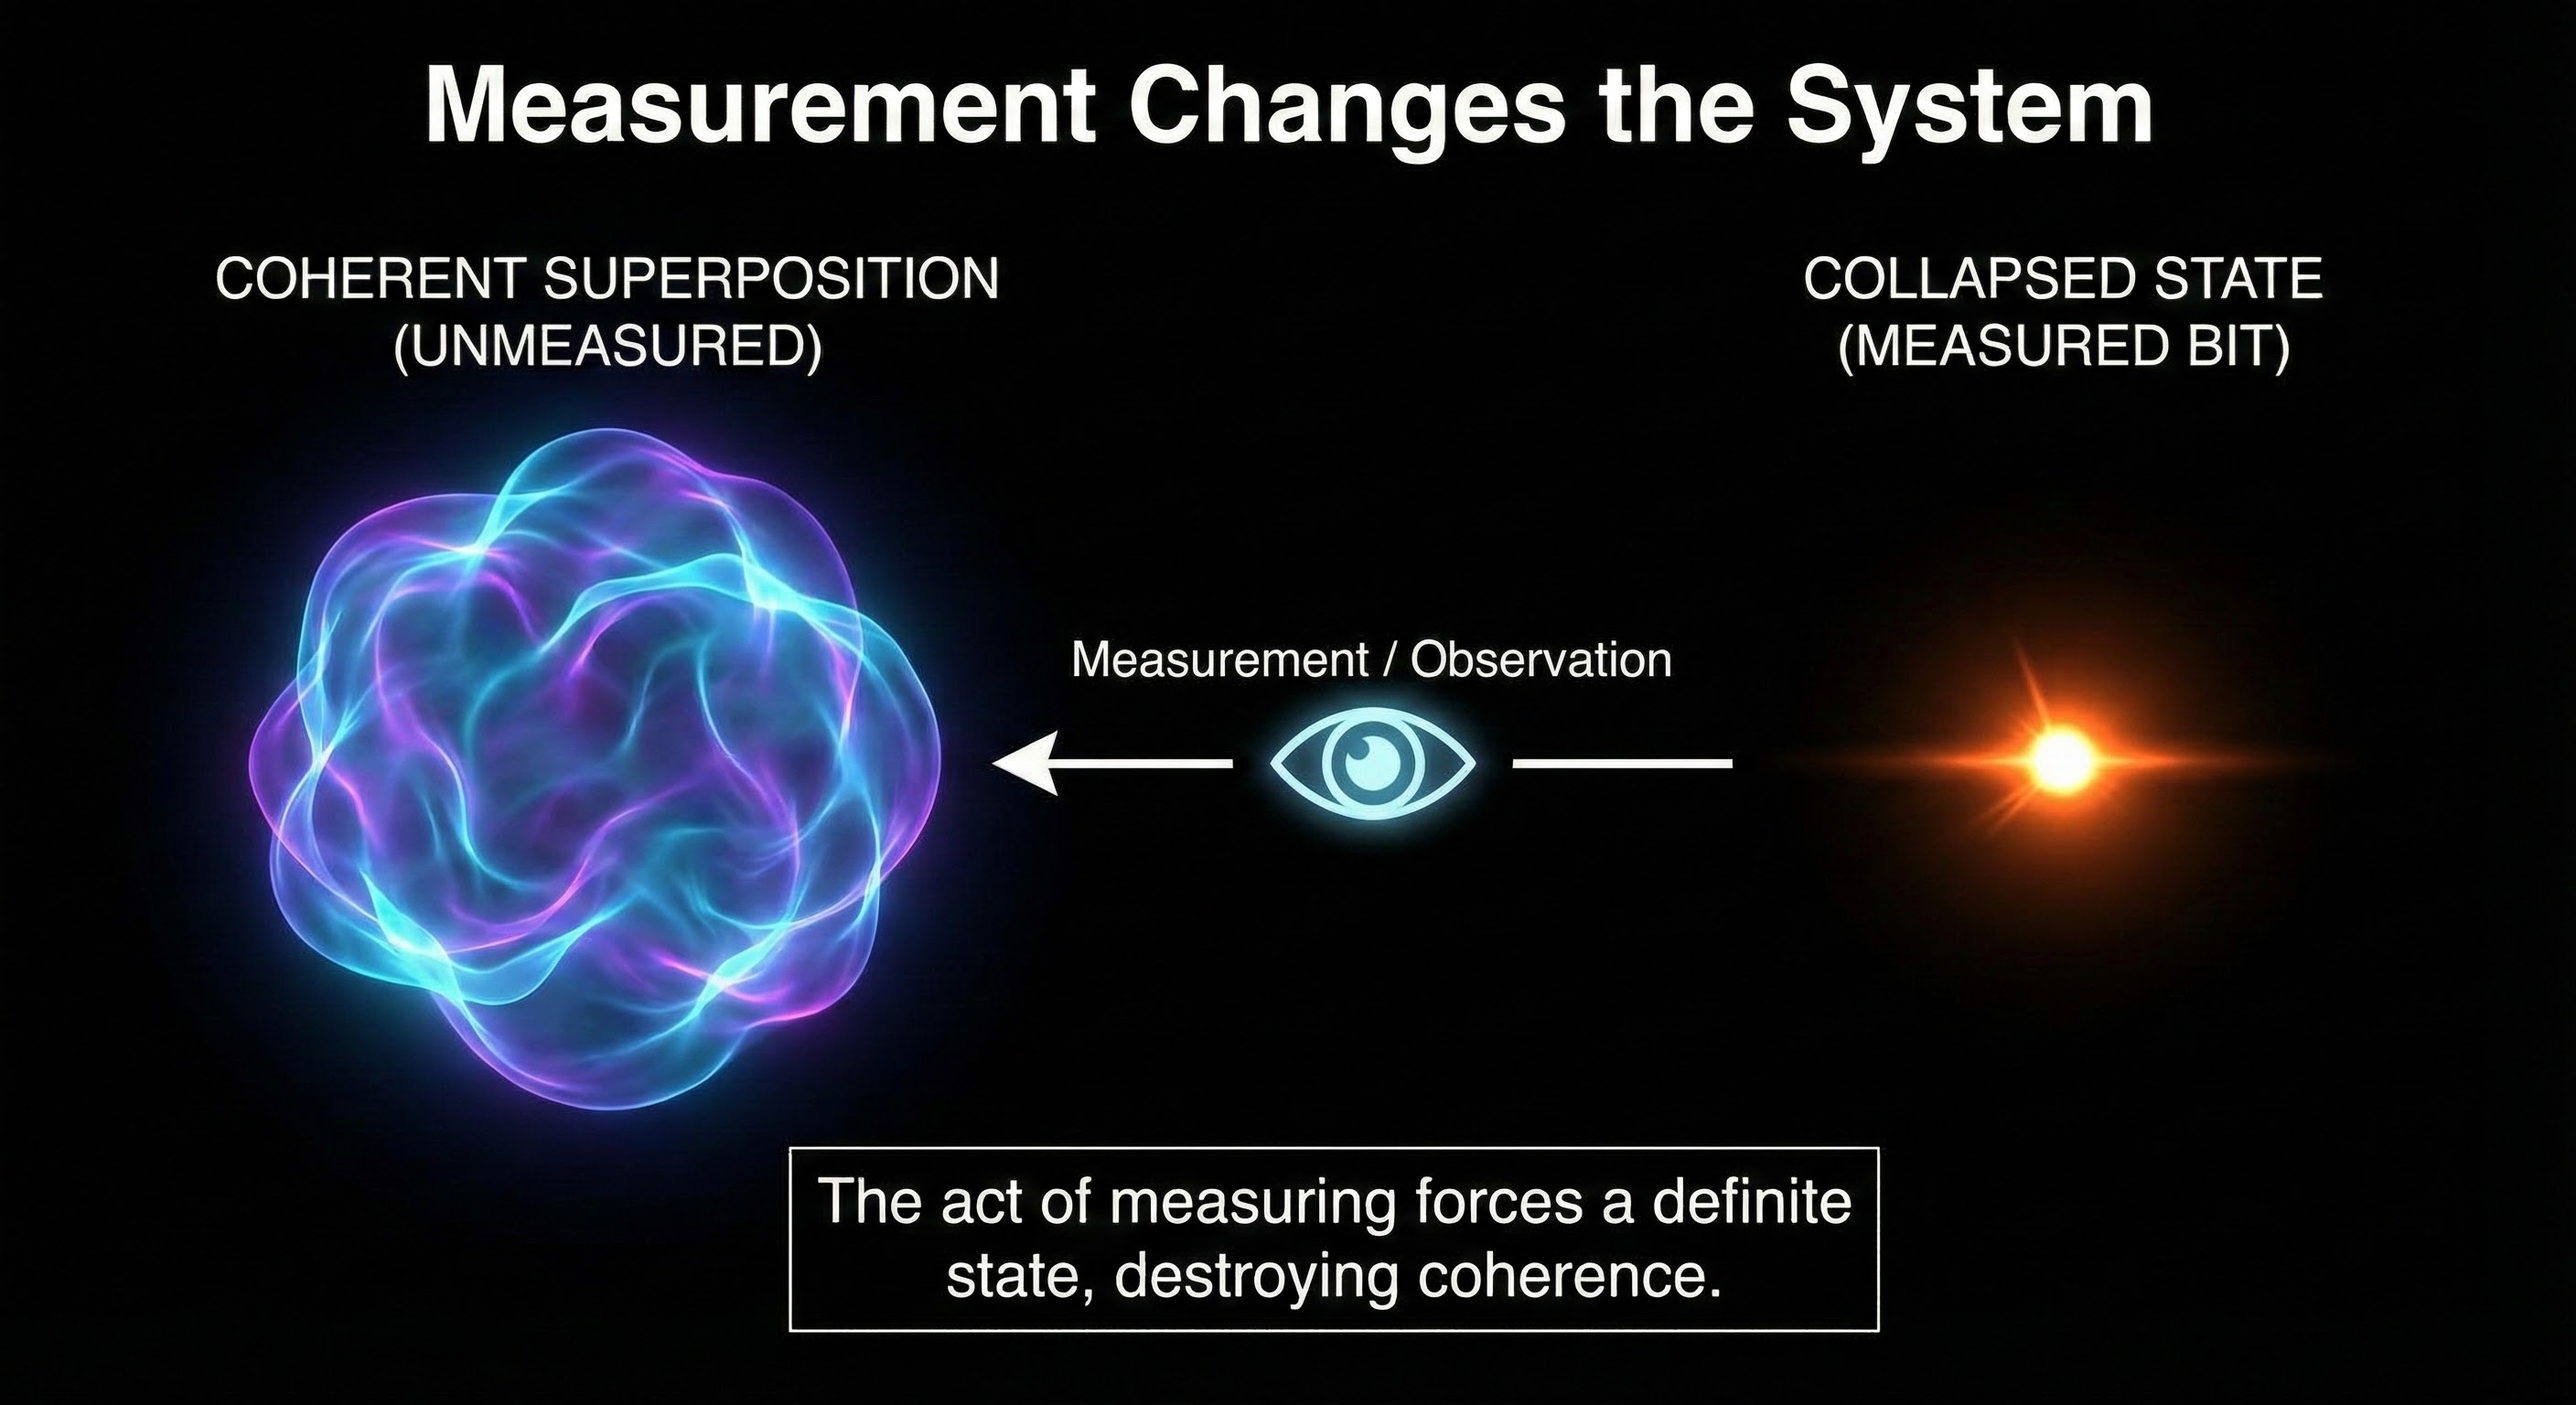
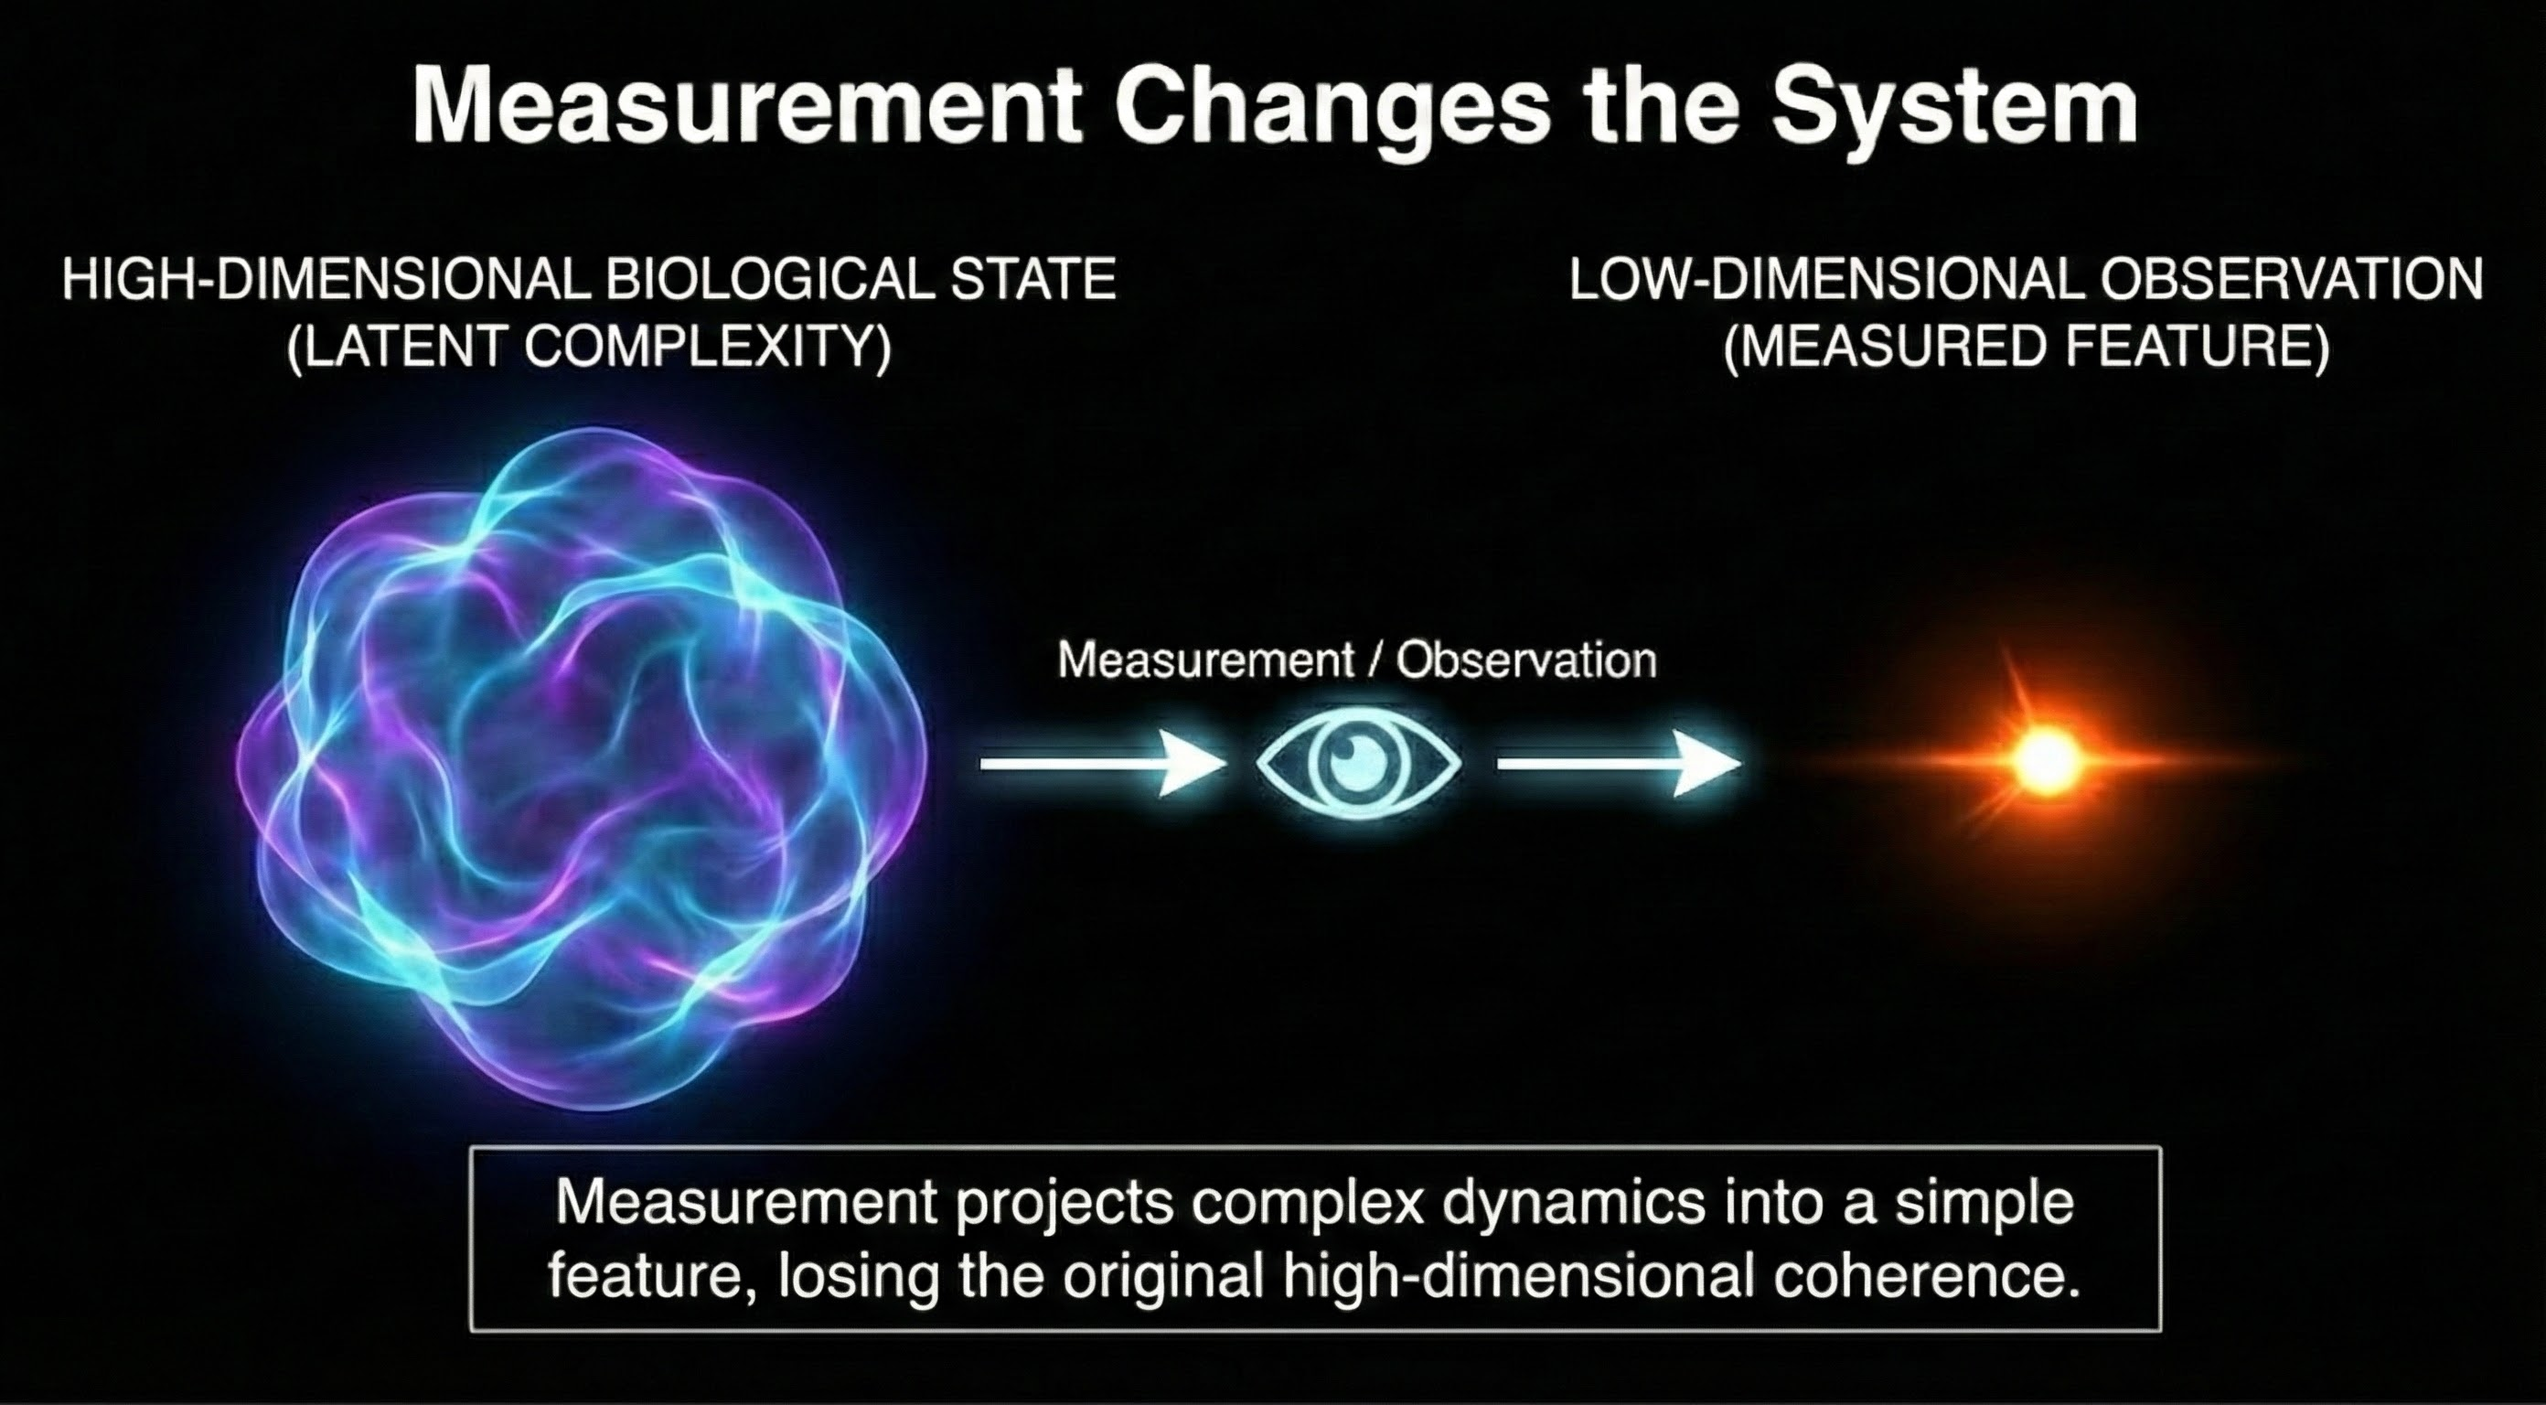
Replace quantum-looking image with biological measurement diagram

diff --git a/src/app/page.tsx b/src/app/page.tsx
@@ -75,13 +75,13 @@ export default function Home() {
           <div className="space-y-6">
             <Image
               src="/images/measurement-changes-system.jpeg"
-              alt="Measurement collapses coherent superposition into a single state"
+              alt="Measurement projects high-dimensional biological state into low-dimensional observation"
               width={500}
               height={300}
               className="rounded-xl"
             />
             <p className="text-sm text-gray-500 text-center">
-              Measurement doesn&apos;t just read a system—it changes it.
+              Measurement projects complex dynamics into a simple feature.
             </p>
           </div>
         </div>
